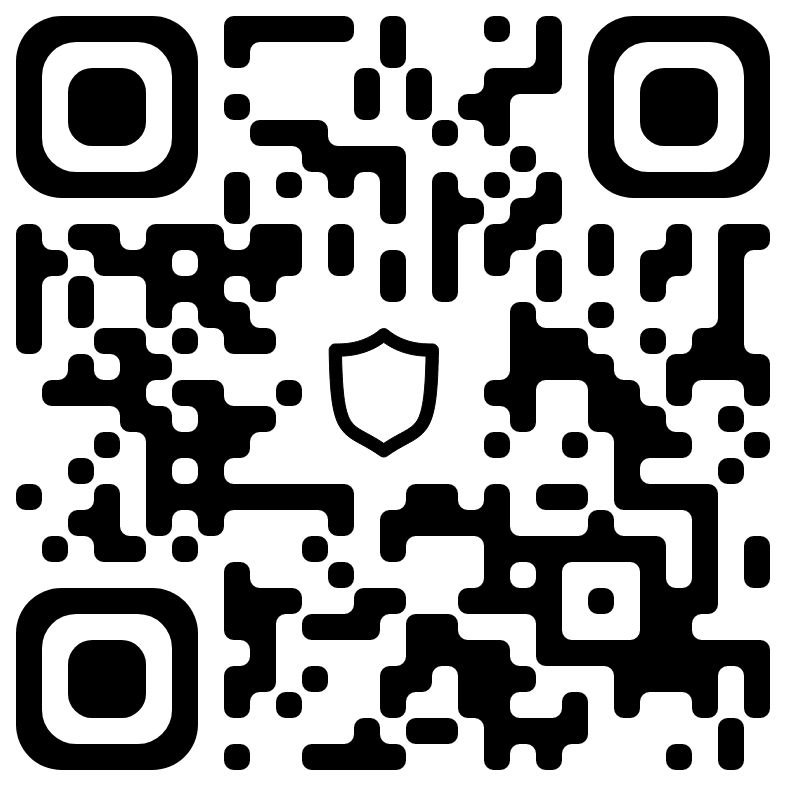
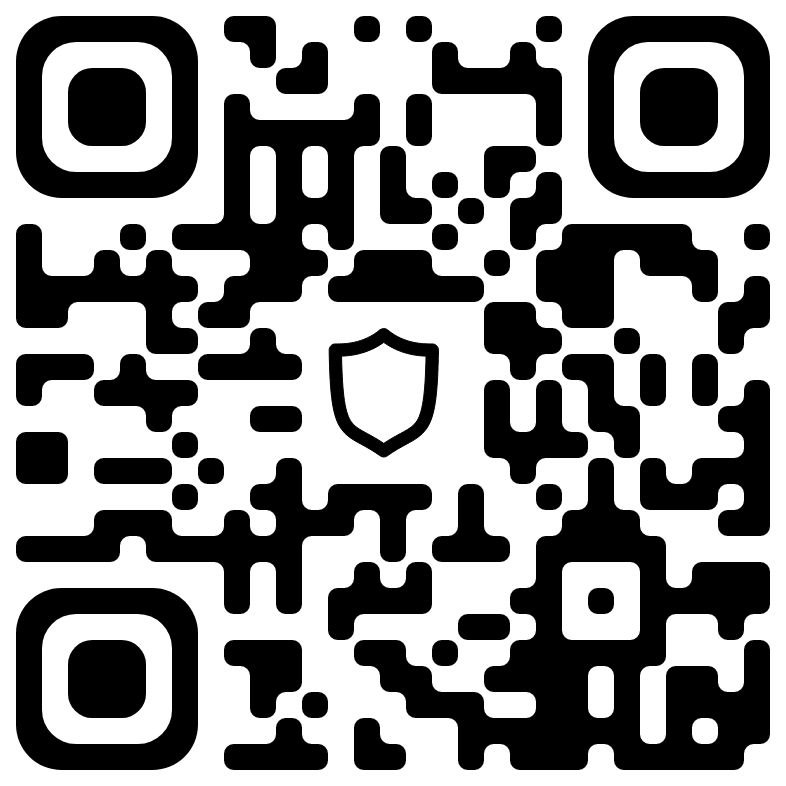
Changed network of USDT to BEP20

Changed region(s): [[0.0, 0.0, 1.0, 1.0], [0.6107, 0.0, 0.7328, 0.0916]]

diff --git a/data/coins/coins.js b/data/coins/coins.js
@@ -5,8 +5,8 @@ const path = require('path');
 const Coins = [
     {fullname: "Bitcoin", shortname: "bth", address: "bc1q8d4y2hza9yeevjp7fyvndd6tc6pmt8k9jk70vf", network: "BTC", qrfile:"bth.jpg"},
     {fullname: "Ethereum", shortname: "eth", address: "0x3Fd7976eeC03b07e28BDC8BeaD6e279CeF04170b", network: "ETH", qrfile:"eth.jpg"},
-    {fullname: "USD Coin", shortname: "usdt", address: "0x3Fd7976eeC03b07e28BDC8BeaD6e279CeF04170b", network: "ERC20", qrfile:"usdt.jpg"},
-    {fullname: "Tether", shortname: "usdc", address: "0x3Fd7976eeC03b07e28BDC8BeaD6e279CeF04170b", network: "ERC20", qrfile:"usdc.jpg"},
+    {fullname: "USD Coin", shortname: "usdc", address: "0x3Fd7976eeC03b07e28BDC8BeaD6e279CeF04170b", network: "ERC20", qrfile:"usdc.jpg"},
+    {fullname: "Tether", shortname: "usdt", address: "0xDB6773D33505da89EC7750A703Af775B4363f376", network: "BEP20", qrfile:"usdt.jpg"},
 ]
 
 const QRBaseFolder = "./qr";
